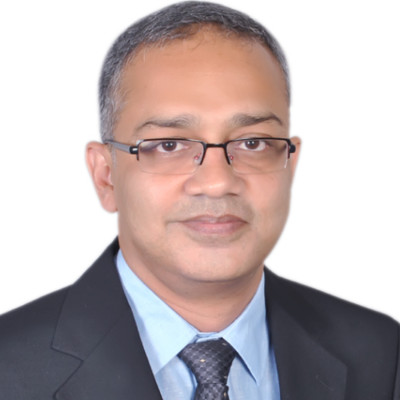
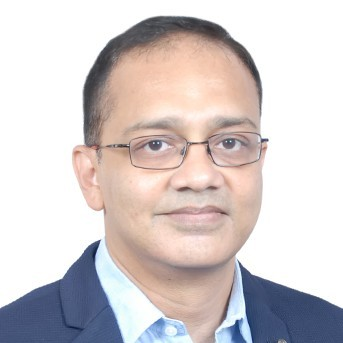
Updated with latest information
Updated some images, added new testimonial and updated the copyright to 2023

diff --git a/index.html b/index.html
@@ -352,6 +352,13 @@
                         <h2>Hitesh Mahajan</h2>
                         <p>Kaustav is every manager's dream employee. He is someone whom the whole team can count on and he will never disappoint. His technical skills and his desire to keep learning are exemplary. He worked in my team for 4 years and I saw him grow tremendously from leadership standpoint. He was a go-to person for the team to resolve complex technical issues. He was the main architect of the test automation framework and managed the CI capability of the team almost on his own. He is extremely detail oriented and has a wonderful work ethic. The whole team looked up to him. I and the team had a difficult time the day he announced his decision to leave. He is a must-have kind of employee in every test automation team and I strongly recommend him. I would very much look forward to an opportunity to have him in my team again.</p>
                     </div>	
+
+					<div class="testimonial-word text-center">
+                    <img src="images/testimonial/8.jpg" class="img-responsive" alt="">
+                        <h2>Parimal Bajpai</h2>
+                        <p>Kaustav and I have been working closely to upgrade QA teams in my group. On the Backend side, automation tests now dish out a neat report that is easy to process in decision making meetings. The tests are modular and easy to reuse for new scenarios and by other teams. On the Android app side, there have been multiple enhancements: (a) manual QA members have been upskilled to SDET by reserving their weekly cycles for automation activities, (b) pCloudy automation framework is in place, (c) Dev testing is enforced to reduce QA team's cycles on easily reproducible bugs.On both Backend and App, "non automatable" tests have been converted to automated by reframing them to suit the available tools.
+						Kaustav's impact on team members' upskilling and overall team process upgrade is most appreciated.</p>
+                    </div>	
 					
                 </div>
             </div>
@@ -372,7 +379,7 @@
               <div class="statistics-icon"><i class="fa fa-check-square-o color-1"></i>
               </div>
               <div class="statistics-content">
-                <h5><span data-count="15" class="statistics-count">15</span></h5><span>Years of Total Experience</span>
+                <h5><span data-count="13" class="statistics-count">13+</span></h5><span>Years of Total Experience</span>
               </div>
             </div>
           </div>
@@ -449,7 +456,7 @@
           </div>
                
             <div class="col-md-4 text-center">
-               <p>© Copyright 2022 Kaustav.</p>
+               <p>© Copyright 2023 Kaustav.</p>
                </div>
               
              <div class="col-md-4 uipasta-credit text-right">
